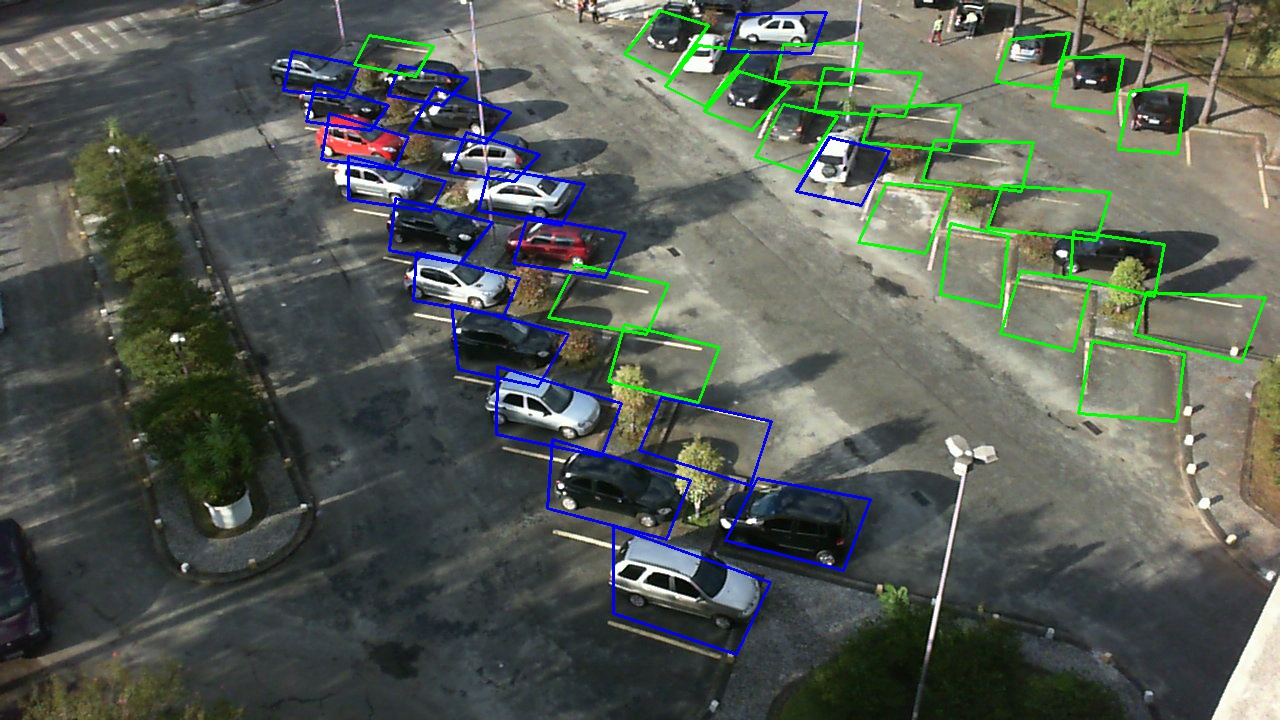
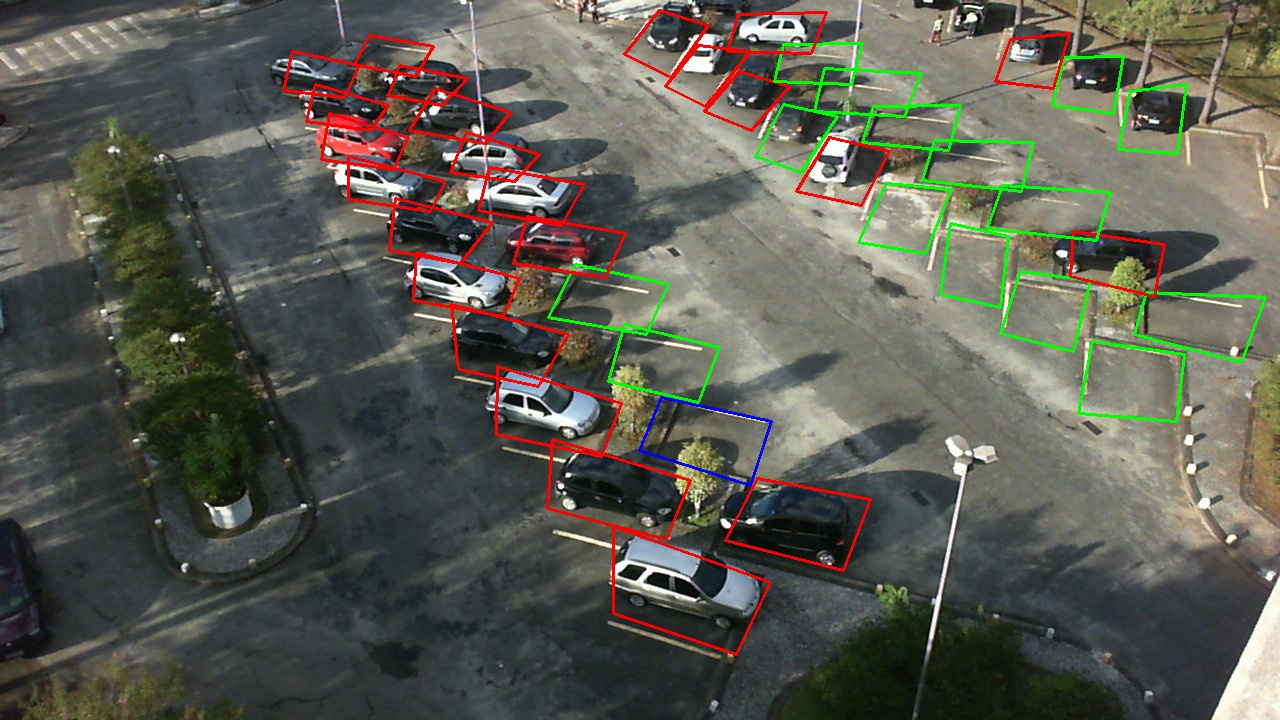
Easier DeBug

diff --git a/KevinEllis/PLOTv2.py b/KevinEllis/PLOTv2.py
@@ -89,7 +89,7 @@ def average(image,index): #called by averagecolors function
                 
     return float(sum) / count
 
-def averagePng(image): #for canny
+def countwhite(image): #for canny
     im=Image.open( "canny edges/"+ parkingspacelocation +"Edge.bmp" )
     width,height = im.size
     actualpixel = width * height
@@ -98,10 +98,10 @@ def averagePng(image): #for canny
         for col in row:
             if col == 255:
                 count = count + 1
-    kevinsvar = (actualpixel / count)
-    print(actualpixel)
-    print(kevinsvar)
-    return count,kevinsvar
+    ratioofwhitepixels = (actualpixel / count)
+    print "Number of pixels in image: " ,actualpixel
+    print "Ratio of white to image: " ,ratioofwhitepixels
+    return count,ratioofwhitepixels
 def averagecolors(image): #returns an array of [B,G,R] for that spot
     avg = [average(image,0) , average(image,1) , average(image, 2)]
     return (avg) #returns touple on rgbavg
@@ -111,17 +111,16 @@ def cannyedgedetection(spotforcanny): #Detects edges
 
     lower = int(max(0, (1.0 - sigma) * v))
     upper = int(min(255, (1.0 + sigma) * v))
-    print( 'v ' , v)
 
     edges = cv2.Canny(spotforcanny,lower,upper)
-    avg = averagePng(edges)
+    white = countwhite(edges) #recieves a touple (num whitepixels,ratio of white to whole image)
 
     dirname = 'canny edges\\'
     #plt.savefig(os.path.join(dirname, parkingspacelocation +  'Edge' + '.png'),transparent=True) #Saves the image to Edges folder
     cv2.imwrite(dirname+parkingspacelocation+'Edge.bmp', edges)
     #plt.savefig(os.path.join(dirname, parkingspacelocation +  'Edge' + '.png'),transparent=True) #Saves the image to Edges folder
     #plt.close()
-    return avg
+    return white
 def sharpen(spot): #Sharpens the image for better edge detection
     #Create the identity filter, but with the 1 shifted to the right!
     kernel = np.zeros( (9,9), np.float32)
@@ -274,6 +273,7 @@ with open('UFPR05_emptyData.json') as emptyLotFile:
 if __name__ == "__main__":
 
     numImg = 1
+    addup = 0
     lot_shots = lot_data['data']['snapshots'] #snapshots of actual p-lots
     lot_coords = lot_data['data']['coords'] #coordinates of spots in p-lot
 
@@ -282,7 +282,7 @@ if __name__ == "__main__":
         if numImg > 1 :
             break
         numImg = numImg+1
-
+        addup = addup + 1
         url = img[1]['img'] #snapshot's url
         
         img_name = img[0]+".jpg"
@@ -323,21 +323,29 @@ if __name__ == "__main__":
             #FOR EDGE DETECTION
             gray_image = cv2.cvtColor(denoise, cv2.COLOR_BGR2GRAY)
             blur = cv2.GaussianBlur(gray_image,(5,5),0)
-            edgesAvg = cannyedgedetection(blur)
-            edgesDiff = edgesAvg[0] - emptyLot_data['spots'][parkingspot[0]-1][2]
-            print edgesAvg[0], emptyLot_data['spots'][parkingspot[0]-1][2]
-            print "Edge diff: ", edgesDiff
-
+            numberofwhite = cannyedgedetection(blur) #recives a touple
+            whitediffromempty = numberofwhite[0] - emptyLot_data['spots'][parkingspot[0]-1][2]
+            #print numberofwhite[0], emptyLot_data['spots'][parkingspot[0]-1][2]
+            print "Diff of whitepixels: ", whitediffromempty
+            median = np.median(blur)
+            print "Median: " , median
+            if (int(lot_data['data']['snapshots'][addup][1]["lotSnapshot"][str(parkingspot[0])]) == 0):
+                print('OPEN \n')
+            else:  
+                print('TAKEN \n')
             #print "size masked img", maskedparkingspace.shape
                 #image = boxemup(image ,topleft,topright,botright,botleft, red_color)  
             # if colorResult[0] == False or colorResult[1] == False:
             #     drawBoundBox(maskedparkingspace, red_color)
             #     spotColors.append([topleft, topright, botleft, botright, red_color])
             #     #image  = boxemup(image ,topleft,topright,botright,botleft, red_color)
-            if edgesAvg[1] < 10:
+            if median < 50:
                  drawBoundBox(maskedparkingspace, red_color)
                  spotColors.append([topleft, topright, botleft, botright, red_color])
-            if edgesDiff > 200:
+            elif numberofwhite[1] <= 11: #uses the ratio
+                 drawBoundBox(maskedparkingspace, red_color)
+                 spotColors.append([topleft, topright, botleft, botright, red_color])
+            elif whitediffromempty > 200:
                 drawBoundBox(maskedparkingspace, red_color)
                 spotColors.append([topleft, topright, botleft, botright, blue_color])
                 #image  = boxemup(image ,topleft,topright,botright,botleft, red_color)
